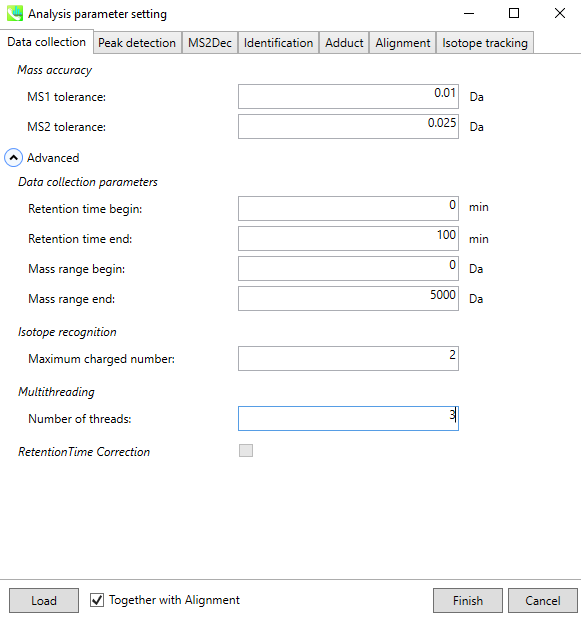
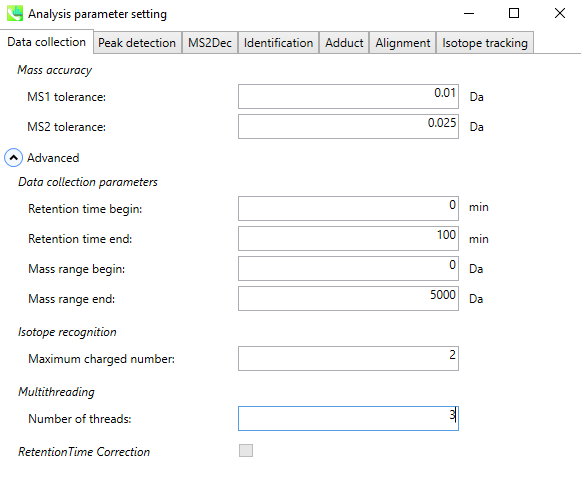
[FBMN] Update on the MS-DIAL page
Update and new ressources

diff --git a/docs/featurebasedmolecularnetworking-with-ms-dial.md b/docs/featurebasedmolecularnetworking-with-ms-dial.md
@@ -1,12 +1,12 @@
-## Introduction
+## 1. Introduction
 
-**Feature-Based Molecular Networking** (FBMN) is a computational method that bridges popular mass spectrometry data processing tools for LC-MS/MS and molecular networking analysis on [GNPS](http://gnps.ucsd.edu). The supported tools are: [MZmine2](featurebasedmolecularnetworking-with-mzmine2.md), [OpenMS](featurebasedmolecularnetworking-with-openms.md), [MS-DIAL](featurebasedmolecularnetworking-with-ms-dial.md), [MetaboScape](featurebasedmolecularnetworking-with-metaboscape.md), [XCMS](featurebasedmolecularnetworking-with-xcms3.md), and [Progenesis QI](featurebasedmolecularnetworking-with-progenesisQI.md).
+**Feature-Based Molecular Networking** (FBMN) is a computational method that bridges popular mass spectrometry data processing tools for LC-MS/MS and molecular networking analysis on [GNPS](http://gnps.ucsd.edu). The supported tools are: [MZmine](featurebasedmolecularnetworking-with-mzmine2.md), [OpenMS](featurebasedmolecularnetworking-with-openms.md), [MS-DIAL](featurebasedmolecularnetworking-with-ms-dial.md), [MetaboScape](featurebasedmolecularnetworking-with-metaboscape.md), [XCMS](featurebasedmolecularnetworking-with-xcms3.md), and [Progenesis QI](featurebasedmolecularnetworking-with-progenesisQI.md).
 
 The main documentation for Feature-Based Molecular Networking [can be accessed here:](featurebasedmolecularnetworking.md)
 
 Below we are describing how to use MS-DIAL with the FBMN workflow on GNPS.
 
-## Mass spectrometry processing with MS-DIAL
+## 2. Mass spectrometry processing with MS-DIAL
 
 Download the latest version of MS-DIAL software at [http://prime.psc.riken.jp/Metabolomics_Software/MS-DIAL](http://prime.psc.riken.jp/Metabolomics_Software/MS-DIAL).
 
@@ -22,12 +22,21 @@ Lai, Z., Tsugawa, H., Wohlgemuth, G., Mehta, S., Mueller, M., Zheng, Y., Ogiwara
 
 In MS-DIAL, a sequence of steps is performed to process the mass spectrometry data. Here we will present key steps required to process LC-MS/MS data acquired in non-targeted mode (data dependent acquisition). For convenience we also provide a batch file (XML format) that can be imported directly in MS-DIAL.
 
-**IMPORTANT:** MS-DIAL parameters will vary depending on the mass spectrometer, the acquisition parameters, and the sample studied. The following documentation serves a basic guideline for using MS-DIAL with the Feature-Based Molecular Networking workflow.
+**IMPORTANT:** MS-DIAL parameters will vary depending on the mass spectrometer, the acquisition parameters, and the samples studied. In this page we present a basic guideline for using MS-DIAL with the FBMN on GNPS.
 
+#### Documentation
 Please consult these resources for more details on MS-DIAL processing:
 
-- The official [MS-DIAL tutorial](http://prime.psc.riken.jp/Metabolomics_Software/MS-DIAL/MSDIAL-tutorial.pdf)
-- The video tutorial about [MS-DIAL processing for Feature Based Molecular Networking](tutorials/americangut-ms-dial.md).
+- See the [MS-DIAL documentation on LC-MS/MS data processing](https://mtbinfo-team.github.io/mtbinfo.github.io/MS-DIAL/tutorial#chapter-3)
+- See the [MS-DIAL documentation for MSE data processing](https://mtbinfo-team.github.io/mtbinfo.github.io/MS-DIAL/tutorial#chapter-8)
+- See the [MS-DIAL documentation on Ion Mobility Spectrometry data processing](https://mtbinfo-team.github.io/mtbinfo.github.io/MS-DIAL/tutorial#chapter-10-)
+
+#### Video Presentation and Tutorials
+
+- The presentation/tutorial [about MS-DIAL](https://youtu.be/SOJvPhCsubQ?t=127) from the Leibniz Institute of Plant Biochemistry.
+- This video [from the WCMC about MS-DIAL](https://www.youtube.com/watch?v=yPawtF1qJ5E)
+- The video tutorial about [MS-DIAL processing for FBMN on GNPS](tutorials/americangut-ms-dial.md).
+<iframe width="600" height="350" src="https://www.youtube.com/embed/hxk40jwAkcc" frameborder="0" allow="accelerometer; autoplay; encrypted-media; gyroscope; picture-in-picture" allowfullscreen></iframe>
 
 ### Convert your LC-MS/MS Data to Open Format
 MS-DIAL accepts different input formats. Note that we recommend first to convert your files to mzML format before doing MS-DIAL processing. [See the documentation here](https://ccms-ucsd.github.io/GNPSDocumentation/fileconversion/).
@@ -42,9 +51,7 @@ Go to Menu: File / New Project
 
 ![img](img/ms-dial/new-project.png)
 
-Select appropriate parameters (ionization type / method type / data type / ion mode / target omics) for your dataset.
-
-Click “Next”.
+Select appropriate parameters (ionization type / method type / data type / ion mode / target omics) for your dataset. Click “Next”.
 
 #### 2. Import Files
 
@@ -52,23 +59,23 @@ Click “browse” and open the dropdown menu for file types, and select “mzML
 
 [Note] Data files should be placed at the same folder with the project file.
 
-Select files and click “Open”. You will see the list of selected files.
-
-Click “Next”.
+Select files and click “Open”. You will see the list of selected files. Click “Next”.
 
 ![img](img/ms-dial/import-raw.png)
 
+
 #### 3. Set Parameters - Data Collection
 
-Set the MS1/MS2 tolerance and data collection parameters.
+Set the MS1/MS2 tolerance and data collection parameters. 
 
 If you are dealing with a large dataset, you can reduce the running time by setting multithreading option in the “Advanced” menu.
 
 ![img](img/ms-dial/set-parameters-data.png)
+![img](img/ms-dial/set-parameters-data2.png)
 
 #### 4. Set Parameters - Peak Detection
 
-Set the MS1 peak detection parameters. You should set a appropriate peak height threshold.
+Set the MS1 peak detection parameters. You should set a peak height threshold that is adapted to the mass spectrometer.
 
 As a rule of thumb, the value should at least correspond to the minimum value set for the triggering of the MS2 scan event.
 
@@ -84,64 +91,66 @@ This is typically lower than for MS1. If you have any doubt, set it to 0.
 
 ![img](img/ms-dial/set-parameters-deconvolution.png)
 
+![img](img/ms-dial/set-parameters-deconvolution2.png)
+
 #### 6. Set Parameters - Alignment
 
 Set appropriate Retention time / MS1 tolerance for alignment.
 
 If you have any quality control (QC) sample data, it is a nice candidate to be the reference file.
 
-Click “Finish”, then MS-DIAL will perform all the feature finding process.
+Click “Finish”, then MS-DIAL will perform all the feature detection and alignment process.
 
 ![img](img/ms-dial/set-parameters-alignment.png)
 
-### Export or/and submit the files needed for Feature-Based Molecular Networking on GNPS:
+### Export the files for GNPS FBMN
 
-- a *feature quantification table* with ion intensities (.CSV file format)
+To run FBMN after MS-DIAL processing, two files have to be exported:
 
-- a list of the MS/MS spectra (MS/MS spectral summary file in .MGF format) (the most intense MS/MS per feature is selected).
+- The **feature quantification table** (TXT file) containing compound intensity and annotation.
 
-Menu: Export / Alignment result
+- The **MS/MS spectral summary** (MGF file) containing the list of representative MS/MS spectra (the most intense MS/MS spectrum).
+
+Go to Menu: Export / Alignment result
 
 ![img](img/ms-dial/export.png)
 
-Check the “GNPS export” box, and set the spectra type to “centroid”.
+Make sur the “GNPS export” box is checked, and set the spectra type to “centroid”.
 
-Set the directory and file name, then click “Export”. As a result, you will acquire a .mgf file and a feature abundance table.
+Set the directory and file name, then click “Export”. As a result, you will acquire a MS/MS spectral summary and the feature quantification table.
 
 ![img](img/ms-dial/export_2.png)
 
-[Note] GNPS export module of MS-DIAL will create a feature table based on MS1 peak height.
+[Note] The GNPS export option of MS-DIAL will create a feature table based on MS1 peak height. If you want a feature table based on peak area, check the “Raw data matrix (Area)”.
 
-If you want a feature table based on peak area, check the “Raw data matrix (Area)”.
+See example of files generated by MS-DIAL and used for the FBMN by the export workflow
+[here](https://github.com/CCMS-UCSD/GNPSDocumentation/tree/master/docs/tutorials/AG_tutorial_files/).
 
-See an example of files outputted by the export module using the workflow:
-[here](https://github.com/CCMS-UCSD/GNPSDocumentation/tree/master/docs/tutorials/AG_tutorial_files/)):
-
-### Running the FBMN with MS-DIAL
+## 3. Running the FBMN with MS-DIAL
 
 After the processing with MS-DIAL, the output files can be used to run the Feature-Based Molecular Networking workflow on GNPS either using the [Superquick FBMN start page] (http://dorresteinappshub.ucsd.edu:5050/featurebasednetworking) or [the standard interface of the FBMN workflow](https://gnps.ucsd.edu/ProteoSAFe/index.jsp?params=%7B%22workflow%22:%22FEATURE-BASED-MOLECULAR-NETWORKING%22,%22library_on_server%22:%22d.speclibs;%22%7D) (you need to be logged in GNPS first).
 
-More information on the Feature Based Molecular Networking workflow on GNPS [can be found on the documentation page](featurebasedmolecularnetworking.md)
+See the main documentation for more details about the [FBMN workflow on GNPS](featurebasedmolecularnetworking.md).
 
-Basically, you will need to upload the files produced by MS-DIAL (test files are accessible [here](https://github.com/CCMS-UCSD/GNPSDocumentation/tree/master/docs/tutorials/AG_tutorial_files/)):
+Basically, you will need to upload the files produced by MS-DIAL:
 
-1. A *feature quantification table* (see above)
-2. A *MS/MS spetral summary* file (see above)
-3. A *metadata table* - requirements are described [here](networking.md#metadata), but note that:
+- The **feature quantification table** (.TXT file)
+- The **MS/MS spetral summary** file (.MGF file)
+- (Optional) The metadata table - requirements are described [here](networking.md#metadata). 
 
-**IMPORTANT FOR METADATA WITH MS-DIAL**: "filename" in the metadata files for FBMN with MS-DIAL should not contain file extensions (ex: "sample1.mzML" must be "sample1").
+**IMPORTANT WHEN USING A METADATA TABLE WITH MS-DIAL**: "filename" in the metadata files for FBMN with MS-DIAL should not contain file extensions (ex: "sample1.mzML" must be "sample1").
 
-Here is an example MS-DIAL networking [job](https://proteomics2.ucsd.edu/ProteoSAFe/status.jsp?task=4102bb6f394f4710a56f5fe1c7490f1e) from a subset of the American Gut Project.
+Here is an example MS-DIAL networking [job](https://gnps.ucsd.edu/ProteoSAFe/status.jsp?task=501aee83c98940f8a076d40d29ccc1f4) from a subset of the American Gut Project.
 
 
-## Tutorials
+### Tutorials
 
 See our [MS-DIAL tutorial](tutorials/americangut-ms-dial.md) on using Feature Based Molecular Networking for the American Gut Project sample.
 
-## Page contributors
+### Page contributors
 Kyo Bin Kang (Sookmyung Women's University), Heejung Yang (Kangwon National University) Louis Felix Nothias (UCSD), Ivan Protsyuk (EMBL, Heidelberg, Germany).
 
-## Contribute to the Documentation
+### Join the GNPS Community !
 
 - For informations/feature request, please open an "Issue" on the [*CCMS-UCSD/GNPSDocumentation*]((https://github.com/CCMS-UCSD/GNPSDocumentation)) GitHub repository.
-- To contribute directly to the GNPS documentation, fork the [*CCMS-UCSD/GNPSDocumentation*]((https://github.com/CCMS-UCSD/GNPSDocumentation)) repository, and make a "Pull Request".
+- To contribute to the GNPS documentation, please use GitHub by forking the [*CCMS-UCSD/GNPSDocumentation*]((https://github.com/CCMS-UCSD/GNPSDocumentation)) repository, and make a "Pull Request" with the changes.
